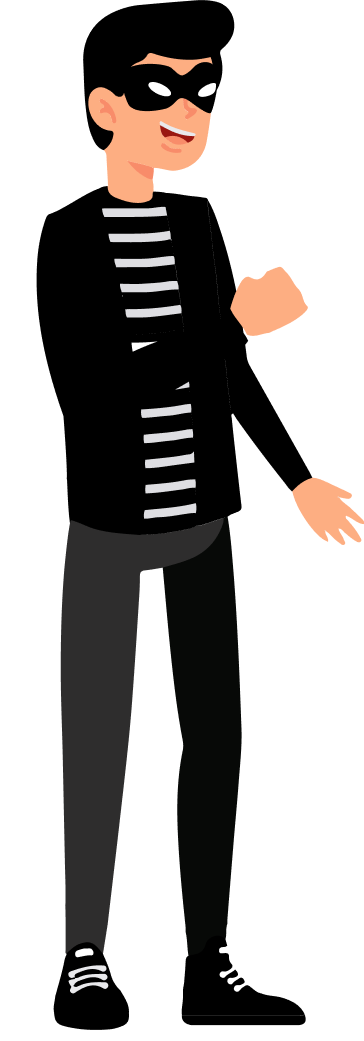
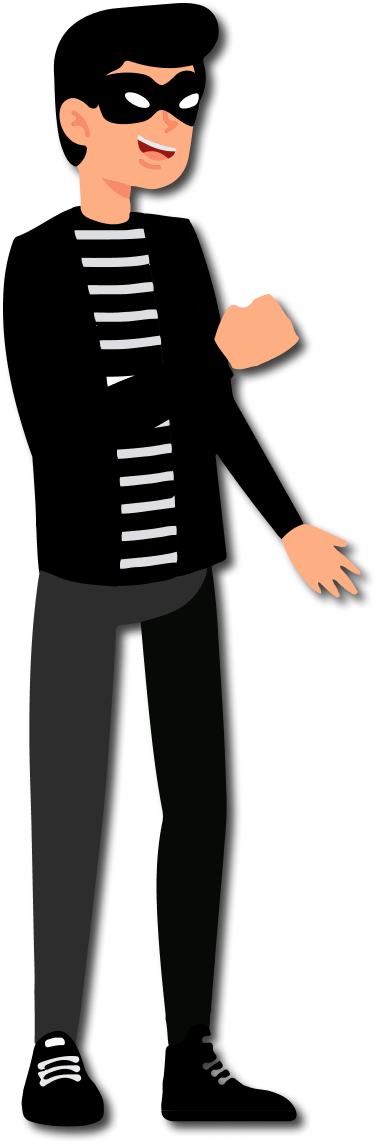
Ændret til billeder med skygge

Changed region(s): [[0.0, 0.0, 1.0, 1.0]]

diff --git a/scenarie.js b/scenarie.js
@@ -219,7 +219,7 @@ function minMenu() {
  {
    id: 4, 
    text: 'Du vælger et lave et helt nyt password, nu hvor du ved, at alle logins skal være unikke. Hmmm... men det er ikke helt nemt at finde på noget nyt. Tulle ser heller ikke ud til at have et godt forslag. \r\n\r\n Hvad skal du finde på? ',
-   img: 'IMG/pige4.png',
+   img: 'IMG/pige1.png',
    img2: 'IMG/hund4.png',
    img7: 'GIF/boblesporgsmaal.gif',
    img5: 'IMG/trekantgron.png',
@@ -255,7 +255,7 @@ function minMenu() {
          nextText: 51
      },
      {
-         text: 'Opretter din egen profil med et nyt password.',
+         text: 'Opretter din egen profil med et nyt password, som du skriver i din notesbog.',
          nextText: 61
      }
  ]
@@ -263,7 +263,7 @@ function minMenu() {
 {
  id: 6, 
  text: 'Puha - det blev et langt og kompliceret password! Men virkelig godt. Det vil nok tage omkring 20 millioner år at hacke. Nu føler du dig tryg og sikker i handlen på webshoppen. \r\n\r\n Hmm.. men adgangskoden skal også gemmes et sted. \r\n\r\n Hvad gør du?',
- img: 'IMG/pige6.png',
+ img: 'IMG/pige3.png',
  img2: 'IMG/hund6.png',
  img7: 'GIF/boblefugl.gif',
  img5: 'IMG/trekantgron.png',
@@ -283,7 +283,7 @@ function minMenu() {
 {
  id: 7, 
  text: 'Din tante hjælper meget gerne. \r\n\r\n Hun råder dig til at finde en password manager. Mens tanten er med på mobilen, finder du frem til den rigtige password manager for dig. Du installerer løsningen på både din bærbare og din mobil, så du altid har dine passwords med dig. Du gemmer dit nye password i din nye password manager og vil du fremover bruge løsningen både til at foreslå sikre passwords til nye logins og når du skal skifte passwords. \r\n\r\n Du takker tanten, lukker computeren og går en tur med Tulle. Alt er godt!',
- img: 'IMG/pige7.png',
+ img: 'IMG/pige3.png',
  img2: 'IMG/hund7.png',
  img3: 'IMG/tante2.png',
  img5: 'IMG/trekantgron.png',

diff --git a/scenario-klar.html b/scenario-klar.html
@@ -33,11 +33,11 @@
 
         <article class="text-scenario-klar">
             <h1>Test din nye viden!</h1>
-            <p>Nu er du klar til sidste del af websitet. Jeg håber, du er blevet skarpere på din hverdag med passwords. I scenariet findes der fornuftige valg og mindre heldige valg. Her er det tilladt at afprøve nogle svar, du normalt ville undvige. En blindgyde kan også give værdifuld viden.</p>
+            <p>Du er nu skarp på din hverdag med passwords og klar til sidste del af websitet - scenariet. I scenariet findes der fornuftige valg og mindre heldige valg. Her er det tilladt at afprøve nogle svar, du normalt ville undvige. En blindgyde kan også give værdifuld viden.</p>
             <p>Lad historien begynde..</p>
             <h2>Vejen til et stærkt password</h2>
             <p class="responsiv-klar">Du er en travl hustru, mor og hundeejer. Din private kalender er proppet med aftaler som at hente og bringe børn, hundetræning, sociale arrangementer i skolen, motionsaftaler med veninderne og listen fortsætter.</p>
-            <p class="responsiv-klar">Når du endelig sidder med din bærbare computer, er det som oftest for at tjekke mails eller lave køb via webshops.</p>
+            <p class="responsiv-klar">Når du endelig sidder med din bærbare computer, er det som oftest for at tjekke mails eller lave køb på webshops.</p>
             <p class="responsiv-klar respons-right kursiv">(Hvis du undervejs har brug for at genopfriske, hvad du lige har læst, kan du gøre brug af menuen i øverste venstre hjørne. Det nulstiller dog dit scenarie, så du skal starte forfra)</p>
         </article>
 

diff --git a/Vejledning.html b/Vejledning.html
@@ -39,8 +39,7 @@
                 <li><p>at give dig valget mellem digitale værktøjer, der kan hjælpe dig i din hverdag med logins</p></li>
             </ul>
             <h3>På de næste sider..</h3>
-            <p class="padding-vejl padding-vejl-respons">..bliver du klogere på hacking, stærke passwords og digitale værktøjer. Når du er kommet igennem artiklerne, er du klar til at afprøve din viden i et scenarie.</p>
-            <p class="padding-vejl padding-vejl-respons">Øverst på siderne ser du en progress bar. For hver side du gennemlæser får du en farvet plet. Den 4. plet får du, når du gennemfører scenariet.</p>
+            <p class="padding-vejl padding-vejl-respons">..bliver du klogere på hacking, stærke passwords og digitale værktøjer. Når du er kommet igennem artiklerne, er du klar til at afprøve din viden i et scenarie. Progress baren i toppen viser dig, hvor langt du er i flowet.</p>
             <p class="padding-vejl padding-vejl-respons2">Du kan springe mellem siderne via menuen i øverste venstre hjørne. Jeg vil dog anbefale dig, at følge flowet ved hjælp af pilene i bunden.</p>
             <p class="p-bund padding-vejl">Hele oplevelsen tager ca. 20 minutter at gennemføre.</p>
             <h2>God fornøjelse!</h2>

diff --git a/scss/style.scss b/scss/style.scss
@@ -645,6 +645,7 @@ display: inline-block;
         position: absolute;
         height: 85%;
         bottom: 2%;
+        left: 2%;
     }
 
     .skaerm{

diff --git a/scss/style.css b/scss/style.css
@@ -787,6 +787,7 @@ nav {
   position: absolute;
   height: 85%;
   bottom: 2%;
+  left: 2%;
 }
 .box-scenario-start .skaerm {
   position: absolute;
